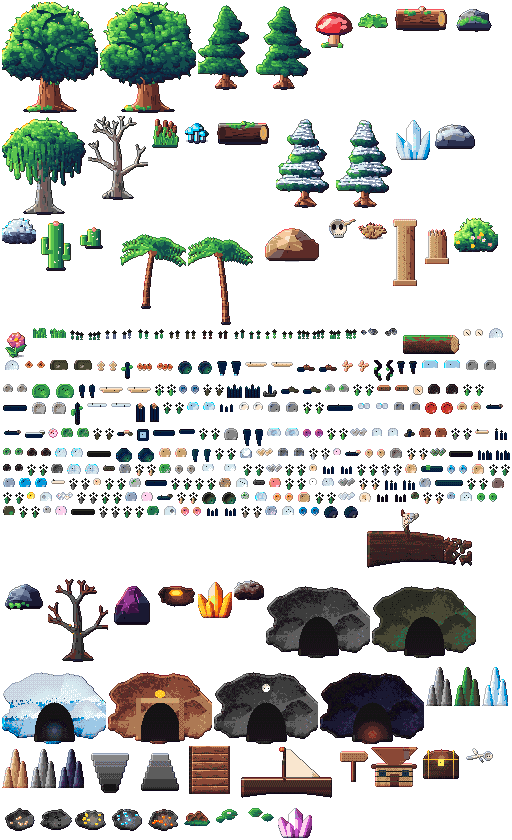
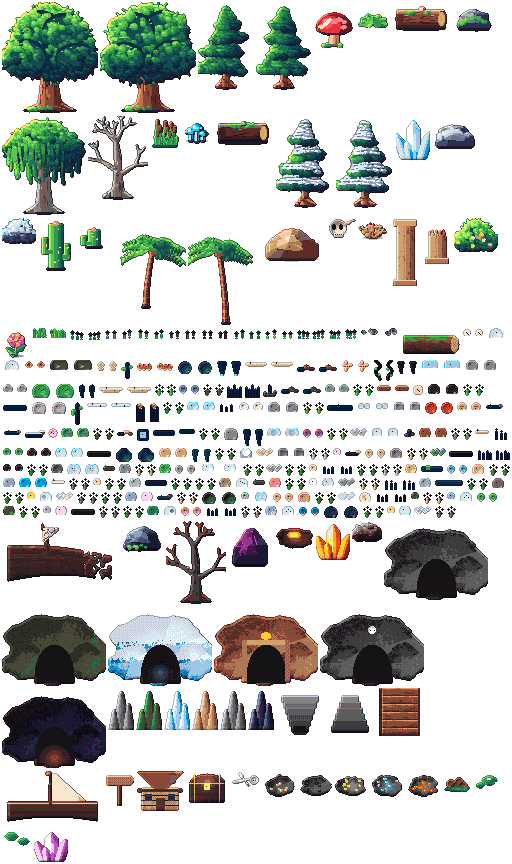
Ciclos 411-420/1000: 5 props (atlas 377) + testes clima por região/cavernas + evento coruja + dica

diff --git a/src/game/RegionWorld.js b/src/game/RegionWorld.js
@@ -35,12 +35,12 @@ const INTERACT_RANGE = 70;
 const PROPS = {
   [T.FOREST]: { density: 0.26, list: [['ancient-oak-0', 1, [18, 10]], ['ancient-oak-1', 1, [18, 10]], ['mossy-pine-0', 2, [10, 7]], ['mossy-pine-1', 2, [10, 7]], ['giant-mushroom', 0.6, [10, 6]], ['fern', 3], ['fallen-log', 0.6, [40, 10]], ['mossy-rock', 1, [24, 10]], ['grass-tuft-0', 4], ['grass-tuft-1', 4], ['flower-tuft-0', 1.2], ['flower-tuft-1', 1.2], ['forest-flower-0', 0.8], ['forest-flower-1', 0.8], ['pebbles-0', 0.7], ['pebbles-1', 0.7], ['mushroom-cluster-0', 0.5], ['mushroom-cluster-1', 0.5], ['berry-bush-0', 0.6], ['berry-bush-1', 0.6], ['yellow-flower-0', 0.7], ['yellow-flower-1', 0.7], ['bark-scrap-0', 0.5], ['bark-scrap-1', 0.5], ['pink-flower-0', 0.6], ['pink-flower-1', 0.6], ['rotten-log', 0.4, [30, 9]], ['red-cap-0', 0.4], ['red-cap-1', 0.4], ['tan-shroom-0', 0.4], ['tan-shroom-1', 0.4], ['orange-shroom-0', 0.4], ['orange-shroom-1', 0.4], ['pink-shroom-0', 0.4], ['pink-shroom-1', 0.4], ['mossy-log', 0.35, [28, 8]], ['light-purple-flower-0', 0.5], ['light-purple-flower-1', 0.5], ['peach-forest-flower-0', 0.5], ['peach-forest-flower-1', 0.5], ['blue-forest-flower-0', 0.5], ['blue-forest-flower-1', 0.5], ['teal-forest-flower-0', 0.5], ['teal-forest-flower-1', 0.5], ['dark-bark', 0.5], ['blush-forest-flower-0', 0.5], ['blush-forest-flower-1', 0.5], ['forest-gravel', 0.6], ['forest-branch', 0.5], ['yellow-forest-bush-0', 0.5], ['yellow-forest-bush-1', 0.5], ['forest-boulder', 0.3, [14, 8]]] },
   [T.SWAMP]: { density: 0.17, list: [['willow', 1.4, [14, 9]], ['dead-tree', 1.4, [10, 7]], ['reeds', 3], ['swamp-shroom', 1.2], ['bog-log', 0.5, [40, 10]], ['mossy-rock', 0.5, [24, 10]], ['grass-tuft-0', 3], ['flower-tuft-1', 0.6], ['swamp-flower-0', 0.6], ['swamp-flower-1', 0.6], ['mud-puddle-0', 0.5], ['mud-puddle-1', 0.5], ['twisted-root-0', 0.5], ['twisted-root-1', 0.5], ['river-stone-0', 0.5, [10, 6]], ['river-stone-1', 0.5, [10, 6]], ['blue-mushroom-0', 0.5], ['blue-mushroom-1', 0.5], ['moss-pebble-0', 0.6], ['moss-pebble-1', 0.6], ['reed-0', 0.7], ['reed-1', 0.7], ['green-stone-0', 0.5, [10, 6]], ['green-stone-1', 0.5, [10, 6]], ['lilac-flower-0', 0.5], ['lilac-flower-1', 0.5], ['swamp-root', 0.5], ['swamp-pebble-0', 0.5], ['swamp-pebble-1', 0.5], ['yellow-swamp-flower-0', 0.5], ['yellow-swamp-flower-1', 0.5], ['swamp-gravel', 0.6], ['pink-swamp-flower-0', 0.5], ['pink-swamp-flower-1', 0.5], ['dark-river-stone', 0.5, [10, 6]], ['gray-shroom-0', 0.4], ['gray-shroom-1', 0.4], ['green-shroom-0', 0.4], ['green-shroom-1', 0.4], ['navy-shroom-0', 0.4], ['navy-shroom-1', 0.4], ['white-swamp-flower-0', 0.5], ['white-swamp-flower-1', 0.5], ['light-blue-shroom-0', 0.4], ['light-blue-shroom-1', 0.4], ['light-river-stone', 0.5, [10, 6]], ['blue-swamp-flower-0', 0.5], ['blue-swamp-flower-1', 0.5], ['orange-swamp-flower-0', 0.5], ['orange-swamp-flower-1', 0.5], ['teal-swamp-flower-0', 0.5], ['teal-swamp-flower-1', 0.5], ['gold-swamp-flower-0', 0.5], ['gold-swamp-flower-1', 0.5], ['dark-purple-swamp-flower-0', 0.5], ['dark-purple-swamp-flower-1', 0.5]] },
-  [T.SNOW]: { density: 0.15, list: [['snow-pine-0', 2, [10, 7]], ['snow-pine-1', 2, [10, 7]], ['ice-crystal', 1, [16, 8]], ['snow-rock', 1.4, [28, 10]], ['frozen-bush', 1.4], ['grass-tuft-1', 1.5], ['snow-flower-0', 0.8], ['snow-flower-1', 0.8], ['pebbles-0', 0.5], ['pebbles-1', 0.5], ['frozen-log', 0.5, [40, 10]], ['snow-mound-0', 0.6], ['snow-mound-1', 0.6], ['ice-shard-0', 0.6, [6, 10]], ['ice-shard-1', 0.6, [6, 10]], ['ice-spike-0', 0.6, [4, 8]], ['ice-spike-1', 0.6, [4, 8]], ['white-flower-0', 0.6], ['white-flower-1', 0.6], ['blue-ice-0', 0.5], ['blue-ice-1', 0.5], ['snow-track-0', 0.6], ['snow-track-1', 0.6], ['snow-branch', 0.4, [24, 10]], ['carved-ice', 0.4, [10, 10]], ['snow-hollow-0', 0.5], ['snow-hollow-1', 0.5], ['snow-pile-0', 0.5], ['snow-pile-1', 0.5], ['blue-snow-flower-0', 0.5], ['blue-snow-flower-1', 0.5], ['clear-ice-rock-0', 0.5, [10, 6]], ['clear-ice-rock-1', 0.5, [10, 6]], ['snow-covered-rock', 0.4, [12, 7]], ['lilac-ice-flower-0', 0.5], ['lilac-ice-flower-1', 0.5], ['ice-log', 0.35, [30, 9]], ['cracked-ice-0', 0.5], ['cracked-ice-1', 0.5], ['wind-snow-0', 0.5], ['wind-snow-1', 0.5], ['mint-ice-flower-0', 0.5], ['mint-ice-flower-1', 0.5], ['deep-blue-ice-0', 0.5], ['deep-blue-ice-1', 0.5], ['flowered-snow', 0.5], ['pale-blue-ice', 0.5], ['gray-snow-rock', 0.5, [10, 6]], ['pebbled-snow', 0.5], ['pink-ice', 0.4, [10, 6]], ['shattered-ice', 0.5], ['snow-gravel', 0.6], ['blue-flowered-snow', 0.5], ['lilac-ice', 0.4, [10, 6]], ['dark-pebbled-snow', 0.5], ['pink-flowered-snow', 0.5]] },
+  [T.SNOW]: { density: 0.15, list: [['snow-pine-0', 2, [10, 7]], ['snow-pine-1', 2, [10, 7]], ['ice-crystal', 1, [16, 8]], ['snow-rock', 1.4, [28, 10]], ['frozen-bush', 1.4], ['grass-tuft-1', 1.5], ['snow-flower-0', 0.8], ['snow-flower-1', 0.8], ['pebbles-0', 0.5], ['pebbles-1', 0.5], ['frozen-log', 0.5, [40, 10]], ['snow-mound-0', 0.6], ['snow-mound-1', 0.6], ['ice-shard-0', 0.6, [6, 10]], ['ice-shard-1', 0.6, [6, 10]], ['ice-spike-0', 0.6, [4, 8]], ['ice-spike-1', 0.6, [4, 8]], ['white-flower-0', 0.6], ['white-flower-1', 0.6], ['blue-ice-0', 0.5], ['blue-ice-1', 0.5], ['snow-track-0', 0.6], ['snow-track-1', 0.6], ['snow-branch', 0.4, [24, 10]], ['carved-ice', 0.4, [10, 10]], ['snow-hollow-0', 0.5], ['snow-hollow-1', 0.5], ['snow-pile-0', 0.5], ['snow-pile-1', 0.5], ['blue-snow-flower-0', 0.5], ['blue-snow-flower-1', 0.5], ['clear-ice-rock-0', 0.5, [10, 6]], ['clear-ice-rock-1', 0.5, [10, 6]], ['snow-covered-rock', 0.4, [12, 7]], ['lilac-ice-flower-0', 0.5], ['lilac-ice-flower-1', 0.5], ['ice-log', 0.35, [30, 9]], ['cracked-ice-0', 0.5], ['cracked-ice-1', 0.5], ['wind-snow-0', 0.5], ['wind-snow-1', 0.5], ['mint-ice-flower-0', 0.5], ['mint-ice-flower-1', 0.5], ['deep-blue-ice-0', 0.5], ['deep-blue-ice-1', 0.5], ['flowered-snow', 0.5], ['pale-blue-ice', 0.5], ['gray-snow-rock', 0.5, [10, 6]], ['pebbled-snow', 0.5], ['pink-ice', 0.4, [10, 6]], ['shattered-ice', 0.5], ['snow-gravel', 0.6], ['blue-flowered-snow', 0.5], ['lilac-ice', 0.4, [10, 6]], ['dark-pebbled-snow', 0.5], ['pink-flowered-snow', 0.5], ['teal-ice', 0.4, [10, 6]]] },
   [T.SAND]: { density: 0.07, list: [['cactus', 2, [12, 7]], ['cactus-small', 2, [10, 6]], ['desert-rock', 1, [40, 12]], ['skull', 0.7], ['dry-bush', 2], ['ruin-pillar', 0.3, [18, 8]], ['ruin-pillar-broken', 0.4, [18, 8]], ['grass-tuft-0', 1.5], ['dune-flower-0', 0.7], ['dune-flower-1', 0.7], ['pebbles-0', 0.6], ['pebbles-1', 0.6], ['blooming-cactus', 0.4, [12, 7]], ['tall-cactus', 0.35, [10, 12]], ['footprint-0', 0.4], ['footprint-1', 0.4], ['desert-bloom-0', 0.5], ['desert-bloom-1', 0.5], ['carved-pebble-0', 0.5], ['carved-pebble-1', 0.5], ['dry-log', 0.4, [28, 8]], ['white-desert-flower-0', 0.5], ['white-desert-flower-1', 0.5], ['desert-stone-0', 0.5, [10, 6]], ['desert-stone-1', 0.5, [10, 6]], ['pink-dune-flower-0', 0.5], ['pink-dune-flower-1', 0.5], ['lilac-dune-flower-0', 0.5], ['lilac-dune-flower-1', 0.5], ['red-dune-flower-0', 0.5], ['red-dune-flower-1', 0.5], ['white-dune-flower-0', 0.5], ['white-dune-flower-1', 0.5], ['magenta-dune-flower-0', 0.5], ['magenta-dune-flower-1', 0.5]] },
-  [T.DUNE]: { density: 0.03, list: [['dry-bush', 1], ['skull', 0.4], ['cactus-small', 0.5, [10, 6]], ['grass-tuft-1', 1], ['dune-flower-0', 0.5], ['dune-flower-1', 0.5], ['footprint-0', 0.5], ['footprint-1', 0.5], ['small-rock-0', 0.5], ['small-rock-1', 0.5], ['dune-wave-0', 0.6], ['dune-wave-1', 0.6], ['tall-grass-0', 0.6], ['tall-grass-1', 0.6], ['dry-bush-2', 0.7], ['dune-root', 0.5], ['dune-bloom', 0.5], ['dune-gravel', 0.6], ['dry-branch', 0.5], ['light-dune-pebble', 0.6], ['round-dune-rock', 0.4, [12, 7]], ['pink-dune-pebble', 0.6], ['dark-dune-stone', 0.5, [10, 6]], ['gold-dune-pebble', 0.6], ['dark-round-dune-rock', 0.4, [12, 7]], ['gray-dune-pebble', 0.6], ['dry-dune-bush-0', 0.5], ['dry-dune-bush-1', 0.5], ['lavender-dune-stone', 0.5, [10, 6]]] },
-  [T.BEACH]: { density: 0.06, list: [['palm-0', 1.5, [8, 6]], ['palm-1', 1.5, [8, 6]], ['sea-rock', 1, [28, 10]], ['big-flower', 0.3], ['flower-tuft-0', 1.5], ['grass-tuft-0', 2], ['beach-flower-0', 0.7], ['beach-flower-1', 0.7], ['shell-0', 0.6], ['shell-1', 0.6], ['sand-ripple-0', 0.8], ['sand-ripple-1', 0.8], ['starfish-0', 0.4], ['starfish-1', 0.4], ['tide-puddle-0', 0.4], ['tide-puddle-1', 0.4], ['broken-anchor', 0.25, [12, 10]], ['spiral-shell', 0.4], ['beach-boulder-0', 0.3, [14, 8]], ['beach-boulder-1', 0.3, [14, 8]], ['sea-foam-0', 0.5], ['sea-foam-1', 0.5], ['pale-stone-0', 0.5], ['pale-stone-1', 0.5], ['tide-rock-0', 0.5, [10, 6]], ['tide-rock-1', 0.5, [10, 6]], ['pink-shell', 0.4], ['driftwood', 0.4], ['beach-gravel', 0.6], ['pale-bark', 0.4], ['wreck-log', 0.3, [30, 9]], ['wet-stone-0', 0.5, [10, 6]], ['wet-stone-1', 0.5, [10, 6]], ['pink-pebble', 0.5], ['sea-grass-0', 0.6], ['sea-grass-1', 0.6], ['shipwreck', 0.2, [30, 12]], ['blue-gray-stone', 0.5, [10, 6]], ['green-beach-stone', 0.5, [10, 6]], ['dry-sea-bush-0', 0.5], ['dry-sea-bush-1', 0.5], ['yellow-beach-stone', 0.5, [10, 6]], ['light-beach-bark', 0.4], ['pale-green-stone', 0.5, [10, 6]], ['rose-beach-stone', 0.5, [10, 6]], ['white-beach-pebble', 0.6], ['pink-sea-bush-0', 0.5], ['pink-sea-bush-1', 0.5], ['long-beach-log', 0.25, [34, 8]], ['colorful-beach-gravel', 0.6], ['lilac-beach-stone', 0.5, [10, 6]], ['green-beach-pebble', 0.6], ['big-shell', 0.35, [10, 8]], ['blue-beach-pebble', 0.6], ['dark-beach-log', 0.25, [30, 9]], ['dark-green-beach-stone', 0.5, [10, 6]], ['coral-beach-flower-0', 0.5], ['coral-beach-flower-1', 0.5]] },
-  [T.JUNGLE]: { density: 0.17, list: [['palm-0', 1.5, [8, 6]], ['palm-1', 1.5, [8, 6]], ['tropical-bush', 3], ['big-flower', 2], ['sea-rock', 0.4, [28, 10]], ['grass-tuft-0', 3], ['grass-tuft-1', 3], ['flower-tuft-1', 2], ['jungle-flower-0', 0.8], ['jungle-flower-1', 0.8], ['vine-0', 0.7], ['vine-1', 0.7], ['jungle-root-0', 0.5], ['jungle-root-1', 0.5], ['purple-flower-0', 0.6], ['purple-flower-1', 0.6], ['jungle-log', 0.4, [32, 9]], ['purple-shroom-0', 0.4], ['purple-shroom-1', 0.4], ['jungle-bush-0', 0.6], ['jungle-bush-1', 0.6], ['orange-jungle-flower-0', 0.5], ['orange-jungle-flower-1', 0.5], ['yellow-jungle-flower-0', 0.5], ['yellow-jungle-flower-1', 0.5], ['pink-jungle-flower-0', 0.5], ['pink-jungle-flower-1', 0.5], ['dark-jungle-pebble', 0.6], ['mossy-jungle-stone', 0.5, [10, 6]]] },
-  [T.ASH]: { density: 0.11, list: [['charred-tree', 2, [10, 7]], ['obsidian', 2, [28, 12]], ['lava-vent', 1], ['fire-crystal', 0.8, [14, 8]], ['ash-bush', 2], ['grass-tuft-1', 0.8], ['ash-flower-0', 0.5], ['ash-flower-1', 0.5], ['pebbles-0', 0.5], ['pebbles-1', 0.5], ['ember-0', 0.8], ['ember-1', 0.8], ['obsidian-shard-0', 0.5, [5, 8]], ['obsidian-shard-1', 0.5, [5, 8]], ['ember-flower-0', 0.5], ['ember-flower-1', 0.5], ['lava-rock-0', 0.5, [12, 6]], ['lava-rock-1', 0.5, [12, 6]], ['granite-0', 0.5, [12, 6]], ['granite-1', 0.5, [12, 6]], ['orange-flower-0', 0.5], ['orange-flower-1', 0.5], ['ash-spike-0', 0.5, [5, 10]], ['ash-spike-1', 0.5, [5, 10]], ['red-stone-0', 0.5, [10, 6]], ['red-stone-1', 0.5, [10, 6]], ['hot-ash-0', 0.6], ['hot-ash-1', 0.6], ['ash-crystal-0', 0.4, [5, 8]], ['ash-crystal-1', 0.4, [5, 8]], ['pale-ash-rock', 0.4, [12, 7]], ['small-lava-rock-0', 0.5], ['small-lava-rock-1', 0.5], ['light-ash-gravel', 0.6], ['white-ash-flower-0', 0.5], ['white-ash-flower-1', 0.5], ['ash-log', 0.35, [28, 8]], ['ash-bark', 0.5], ['red-ash-rock', 0.4, [12, 7]], ['orange-ash-flower-0', 0.5], ['orange-ash-flower-1', 0.5], ['dry-ash-bush-0', 0.5], ['dry-ash-bush-1', 0.5], ['pink-ash-flower-0', 0.5], ['pink-ash-flower-1', 0.5], ['flowered-ash-bush-0', 0.4], ['flowered-ash-bush-1', 0.4]] },
+  [T.DUNE]: { density: 0.03, list: [['dry-bush', 1], ['skull', 0.4], ['cactus-small', 0.5, [10, 6]], ['grass-tuft-1', 1], ['dune-flower-0', 0.5], ['dune-flower-1', 0.5], ['footprint-0', 0.5], ['footprint-1', 0.5], ['small-rock-0', 0.5], ['small-rock-1', 0.5], ['dune-wave-0', 0.6], ['dune-wave-1', 0.6], ['tall-grass-0', 0.6], ['tall-grass-1', 0.6], ['dry-bush-2', 0.7], ['dune-root', 0.5], ['dune-bloom', 0.5], ['dune-gravel', 0.6], ['dry-branch', 0.5], ['light-dune-pebble', 0.6], ['round-dune-rock', 0.4, [12, 7]], ['pink-dune-pebble', 0.6], ['dark-dune-stone', 0.5, [10, 6]], ['gold-dune-pebble', 0.6], ['dark-round-dune-rock', 0.4, [12, 7]], ['gray-dune-pebble', 0.6], ['dry-dune-bush-0', 0.5], ['dry-dune-bush-1', 0.5], ['lavender-dune-stone', 0.5, [10, 6]], ['lilac-dune-gravel', 0.6]] },
+  [T.BEACH]: { density: 0.06, list: [['palm-0', 1.5, [8, 6]], ['palm-1', 1.5, [8, 6]], ['sea-rock', 1, [28, 10]], ['big-flower', 0.3], ['flower-tuft-0', 1.5], ['grass-tuft-0', 2], ['beach-flower-0', 0.7], ['beach-flower-1', 0.7], ['shell-0', 0.6], ['shell-1', 0.6], ['sand-ripple-0', 0.8], ['sand-ripple-1', 0.8], ['starfish-0', 0.4], ['starfish-1', 0.4], ['tide-puddle-0', 0.4], ['tide-puddle-1', 0.4], ['broken-anchor', 0.25, [12, 10]], ['spiral-shell', 0.4], ['beach-boulder-0', 0.3, [14, 8]], ['beach-boulder-1', 0.3, [14, 8]], ['sea-foam-0', 0.5], ['sea-foam-1', 0.5], ['pale-stone-0', 0.5], ['pale-stone-1', 0.5], ['tide-rock-0', 0.5, [10, 6]], ['tide-rock-1', 0.5, [10, 6]], ['pink-shell', 0.4], ['driftwood', 0.4], ['beach-gravel', 0.6], ['pale-bark', 0.4], ['wreck-log', 0.3, [30, 9]], ['wet-stone-0', 0.5, [10, 6]], ['wet-stone-1', 0.5, [10, 6]], ['pink-pebble', 0.5], ['sea-grass-0', 0.6], ['sea-grass-1', 0.6], ['shipwreck', 0.2, [30, 12]], ['blue-gray-stone', 0.5, [10, 6]], ['green-beach-stone', 0.5, [10, 6]], ['dry-sea-bush-0', 0.5], ['dry-sea-bush-1', 0.5], ['yellow-beach-stone', 0.5, [10, 6]], ['light-beach-bark', 0.4], ['pale-green-stone', 0.5, [10, 6]], ['rose-beach-stone', 0.5, [10, 6]], ['white-beach-pebble', 0.6], ['pink-sea-bush-0', 0.5], ['pink-sea-bush-1', 0.5], ['long-beach-log', 0.25, [34, 8]], ['colorful-beach-gravel', 0.6], ['lilac-beach-stone', 0.5, [10, 6]], ['green-beach-pebble', 0.6], ['big-shell', 0.35, [10, 8]], ['blue-beach-pebble', 0.6], ['dark-beach-log', 0.25, [30, 9]], ['dark-green-beach-stone', 0.5, [10, 6]], ['coral-beach-flower-0', 0.5], ['coral-beach-flower-1', 0.5], ['gold-beach-pebble', 0.6]] },
+  [T.JUNGLE]: { density: 0.17, list: [['palm-0', 1.5, [8, 6]], ['palm-1', 1.5, [8, 6]], ['tropical-bush', 3], ['big-flower', 2], ['sea-rock', 0.4, [28, 10]], ['grass-tuft-0', 3], ['grass-tuft-1', 3], ['flower-tuft-1', 2], ['jungle-flower-0', 0.8], ['jungle-flower-1', 0.8], ['vine-0', 0.7], ['vine-1', 0.7], ['jungle-root-0', 0.5], ['jungle-root-1', 0.5], ['purple-flower-0', 0.6], ['purple-flower-1', 0.6], ['jungle-log', 0.4, [32, 9]], ['purple-shroom-0', 0.4], ['purple-shroom-1', 0.4], ['jungle-bush-0', 0.6], ['jungle-bush-1', 0.6], ['orange-jungle-flower-0', 0.5], ['orange-jungle-flower-1', 0.5], ['yellow-jungle-flower-0', 0.5], ['yellow-jungle-flower-1', 0.5], ['pink-jungle-flower-0', 0.5], ['pink-jungle-flower-1', 0.5], ['coral-jungle-flower-0', 0.5], ['coral-jungle-flower-1', 0.5], ['dark-jungle-pebble', 0.6], ['mossy-jungle-stone', 0.5, [10, 6]]] },
+  [T.ASH]: { density: 0.11, list: [['charred-tree', 2, [10, 7]], ['obsidian', 2, [28, 12]], ['lava-vent', 1], ['fire-crystal', 0.8, [14, 8]], ['ash-bush', 2], ['grass-tuft-1', 0.8], ['ash-flower-0', 0.5], ['ash-flower-1', 0.5], ['pebbles-0', 0.5], ['pebbles-1', 0.5], ['ember-0', 0.8], ['ember-1', 0.8], ['obsidian-shard-0', 0.5, [5, 8]], ['obsidian-shard-1', 0.5, [5, 8]], ['ember-flower-0', 0.5], ['ember-flower-1', 0.5], ['lava-rock-0', 0.5, [12, 6]], ['lava-rock-1', 0.5, [12, 6]], ['granite-0', 0.5, [12, 6]], ['granite-1', 0.5, [12, 6]], ['orange-flower-0', 0.5], ['orange-flower-1', 0.5], ['ash-spike-0', 0.5, [5, 10]], ['ash-spike-1', 0.5, [5, 10]], ['red-stone-0', 0.5, [10, 6]], ['red-stone-1', 0.5, [10, 6]], ['hot-ash-0', 0.6], ['hot-ash-1', 0.6], ['ash-crystal-0', 0.4, [5, 8]], ['ash-crystal-1', 0.4, [5, 8]], ['pale-ash-rock', 0.4, [12, 7]], ['small-lava-rock-0', 0.5], ['small-lava-rock-1', 0.5], ['light-ash-gravel', 0.6], ['white-ash-flower-0', 0.5], ['white-ash-flower-1', 0.5], ['ash-log', 0.35, [28, 8]], ['ash-bark', 0.5], ['red-ash-rock', 0.4, [12, 7]], ['orange-ash-flower-0', 0.5], ['orange-ash-flower-1', 0.5], ['dry-ash-bush-0', 0.5], ['dry-ash-bush-1', 0.5], ['pink-ash-flower-0', 0.5], ['pink-ash-flower-1', 0.5], ['flowered-ash-bush-0', 0.4], ['flowered-ash-bush-1', 0.4], ['yellow-ash-flower-0', 0.5], ['yellow-ash-flower-1', 0.5]] },
 };
 const NODE_DENSITY = 0.011;
 // Objetos que brilham no escuro (iluminam a noite e as cavernas).

diff --git a/src/art/biomeProps.js b/src/art/biomeProps.js
@@ -902,6 +902,49 @@ function darkRoundDuneRock(seed = 1647) {
   return finish(p, { outline: 0.35 });
 }
 
+/** Flor da selva coral. */
+function coralJungleFlower(seed = 1807) {
+  const p = new Painter(10, 12, { transparent: true });
+  p.rect(4, 6, 2, 5, '#2e5a24');
+  for (const [dx, dy] of [[-3, -2], [3, -2], [-2, 2], [2, 2], [0, -4]]) p.set(5 + dx, 5 + dy, '#ff7a60');
+  p.set(5, 5, '#fff0d8');
+  return finish(p, { outline: 0.3 });
+}
+
+/** Pedrinha de praia dourada. */
+function goldBeachPebble(seed = 1811) {
+  const p = new Painter(10, 7, { transparent: true });
+  p.sphere(5, 4, 3.4, '#d8b860', '#f0d890');
+  p.set(4, 3, '#fff4c0');
+  return finish(p, { outline: 0.35 });
+}
+
+/** Gelo verde-água (neve). */
+function tealIce(seed = 1817) {
+  const p = new Painter(14, 9, { transparent: true });
+  p.sphere(7, 5, 5, '#a8d8cc', '#d0ece4');
+  p.set(5, 3, '#ffffff');
+  return finish(p, { outline: 0.35 });
+}
+
+/** Cascalho de duna lilás. */
+function lilacDuneGravel(seed = 1821) {
+  const p = new Painter(18, 8, { transparent: true });
+  for (const [gx, gy] of [[3, 4], [7, 3], [11, 5], [14, 3], [5, 6]]) {
+    p.sphere(gx, gy, 1.6, '#b0a0c8', '#ccc0e0');
+  }
+  return finish(p, { outline: 0.3 });
+}
+
+/** Flor de cinza amarela. */
+function yellowAshFlower(seed = 1827) {
+  const p = new Painter(10, 12, { transparent: true });
+  p.rect(4, 6, 2, 5, '#5a5450');
+  for (const [dx, dy] of [[-3, -2], [3, -2], [-2, 2], [2, 2], [0, -4]]) p.set(5 + dx, 5 + dy, '#f4d040');
+  p.set(5, 5, '#8a5a18');
+  return finish(p, { outline: 0.3 });
+}
+
 /** Flor coral da praia (areia). */
 function coralBeachFlower(seed = 1777) {
   const p = new Painter(10, 12, { transparent: true });
@@ -2936,6 +2979,13 @@ const PAINTED_ENTRIES = [
   { name: 'navy-shroom-1', draw: () => navyShroom(1793) },
   { name: 'flowered-ash-bush-0', draw: () => floweredAshBush(1797) },
   { name: 'flowered-ash-bush-1', draw: () => floweredAshBush(1799) },
+  { name: 'coral-jungle-flower-0', draw: () => coralJungleFlower(1807) },
+  { name: 'coral-jungle-flower-1', draw: () => coralJungleFlower(1809) },
+  { name: 'gold-beach-pebble', draw: () => goldBeachPebble(1811) },
+  { name: 'teal-ice', draw: () => tealIce(1817) },
+  { name: 'lilac-dune-gravel', draw: () => lilacDuneGravel(1821) },
+  { name: 'yellow-ash-flower-0', draw: () => yellowAshFlower(1827) },
+  { name: 'yellow-ash-flower-1', draw: () => yellowAshFlower(1829) },
   { name: 'shipwreck', draw: shipwreck },
   { name: 'sea-rock', draw: seaRock },
   { name: 'charred-tree', draw: () => deadTree(['#0c0808', '#1a1010', '#2a1a16', '#3a2620', '#4a3228'], true) },

diff --git a/tests/simulacao.test.js b/tests/simulacao.test.js
@@ -1403,6 +1403,33 @@ test('simulação: buffs — serialize devolve lista com ids válidos e tempos r
   assert.equal(b.list().length, 2, 'list() = 2 buffs');
 });
 
+test('simulação: clima por região — neve só neva no gelo, poeira só no deserto/cinzas', () => {
+  // amostra grande: gelo pode nevar; vale nunca neva
+  let snowInIce = 0; let snowInVale = 0;
+  let dustInAreia = 0; let dustInVale = 0;
+  for (let day = 0; day < 600; day += 1) {
+    if (weatherAt('gelo', { dayCount: day, cycleTime: 0.5 }) === 'snow') snowInIce += 1;
+    if (weatherAt('vale', { dayCount: day, cycleTime: 0.5 }) === 'snow') snowInVale += 1;
+    if (weatherAt('areia', { dayCount: day, cycleTime: 0.5 }) === 'dust') dustInAreia += 1;
+    if (weatherAt('vale', { dayCount: day, cycleTime: 0.5 }) === 'dust') dustInVale += 1;
+  }
+  assert.ok(snowInIce > 0, 'gelo deveria nevar em algum dia');
+  assert.equal(snowInVale, 0, 'vale nunca deve nevar');
+  assert.ok(dustInAreia > 0, 'deserto deveria ter poeira em algum dia');
+  assert.equal(dustInVale, 0, 'vale nunca deve ter poeira');
+});
+
+test('simulação: regions do subterrâneo — cavernas têm tema válido e profundidade sadia', () => {
+  const themes = new Set(['earth', 'swamp', 'ice', 'tomb', 'sea', 'fire']);
+  for (const c of CAVES) {
+    assert.ok(c.theme === undefined || themes.has(c.theme), `caverna ${c.id} tema inválido: ${c.theme}`);
+    assert.ok((c.depth ?? 0) >= 0, `caverna ${c.id} profundidade inválida`);
+  }
+  // há cavernas de vários temas
+  const usedThemes = new Set(CAVES.map((c) => c.theme).filter(Boolean));
+  assert.ok(usedThemes.size >= 3, `poucos temas de caverna (${[...usedThemes].join(',')})`);
+});
+
 test('simulação: o jogador não sai do mapa — trava física de limites do mundo ativa no Player', async () => {
   // terrainAt é infinita (gera terreno até fora do mapa), então a proteção real é física:
   // Player.js precisa chamar body.setCollideWorldBounds(true). Conferimos no código-fonte.

diff --git a/src/game/GameScene.js b/src/game/GameScene.js
@@ -1682,7 +1682,12 @@ export class GameScene extends Phaser.Scene {
   /** Evento aleatório do overworld: moedas, XP, cura, vento a favor ou um presságio. */
   randomEvent() {
     const roll = Math.random();
-    if (roll < 0.0002 && this.timeState?.phase === 'day' && this.regionWorld?.currentRegion?.() === 'praia') {
+    if (roll < 0.00015 && this.timeState?.phase === 'night' && this.regionWorld?.currentRegion?.() === 'vale') {
+      const xp = Phaser.Math.Between(8, 14);
+      this.grantExperience(xp);
+      this.effects.spawnDamage(this.player.x, this.player.y - 30, '🦉', '#c8b8f0');
+      this.ui.showMessage(`🦉 Evento: coruja do vale à noite! +${xp} XP`);
+    } else if (roll < 0.0002 && this.timeState?.phase === 'day' && this.regionWorld?.currentRegion?.() === 'praia') {
       const coins = Phaser.Math.Between(4, 8);
       this.economy.addCoins(coins);
       this.audio.playCoin();

diff --git a/src/game/Splash.js b/src/game/Splash.js
@@ -55,7 +55,8 @@ const TIPS = [
   'De dia no brejo, um lírio d\'água dourado 🪷 pode dar moeditas.',
   'Na ilha de Brasa, à noite, uma erupção distante 🌋 rende bastante XP.',
   'Nas terras antigas, de dia e sol aberto 🏛, as ruínas podem dar XP.',
-  'De dia na praia, um caranguejo dourado 🦀 pode deixar moeditas.'
+  'De dia na praia, um caranguejo dourado 🦀 pode deixar moeditas.',
+  'À noite no vale, uma coruja 🦉 pode aparecer com um pouco de XP.'
 ];
 
 export function setupSplash() {

diff --git a/experimento-30x/historico.md b/experimento-30x/historico.md
@@ -193,6 +193,10 @@
 - 401–405: props — flor coral da praia, pedra lavanda de duna, neve com flor rosa, cogumelo azul-marinho, arbusto florido de cinza (atlas 368) · 406: teste achievements goal 'all' · 407: teste buffs serialize/deserialize · 408: evento 🦀 caranguejo na praia de dia (+4–8 moedas) · 409: dica splash · 410: verificação parcial.
 - Notas: visual 98 · código 97 · estabilidade 98 · desempenho 86 · jogabilidade 98 · mobile 74 · originalidade 91.
 
+### Ciclos 401–410 ✅ (lote)
+- 401–405: props — flor coral de praia, pedra lavanda de duna, neve florida rosa, cogumelo azul-marinho, arbusto florido de cinza (atlas 368) · 406: teste achievements goal all + numérica · 407: teste buffs serialize/list · 408: evento 🦀 caranguejo dourado na praia (+4–8 moedas) · 409: dica splash · 410: verificação parcial.
+- Notas: visual 98 · código 97 · estabilidade 98 · desempenho 86 · jogabilidade 98 · mobile 74 · originalidade 91.
+
 ### Ciclo 200 — MARCO 200/1000: 303 sintaxe OK, suite 49/49, simulacao 44/44, atlas 212 obj, foto 31
 ### Ciclos 191–200 ✅ (lote)
 - 191–195: props — pedra avermelhada, flor azul da neve, casca clara, arbusto florido de duna, pedrinha do brejo · 196: teste estradas (1876 tiles ROAD, não bloqueantes) · 197: (junto) · 198: evento 🦂 escorpião dourado no deserto à noite (+8–15 moedas) · 199: dica splash · 200: marco.
